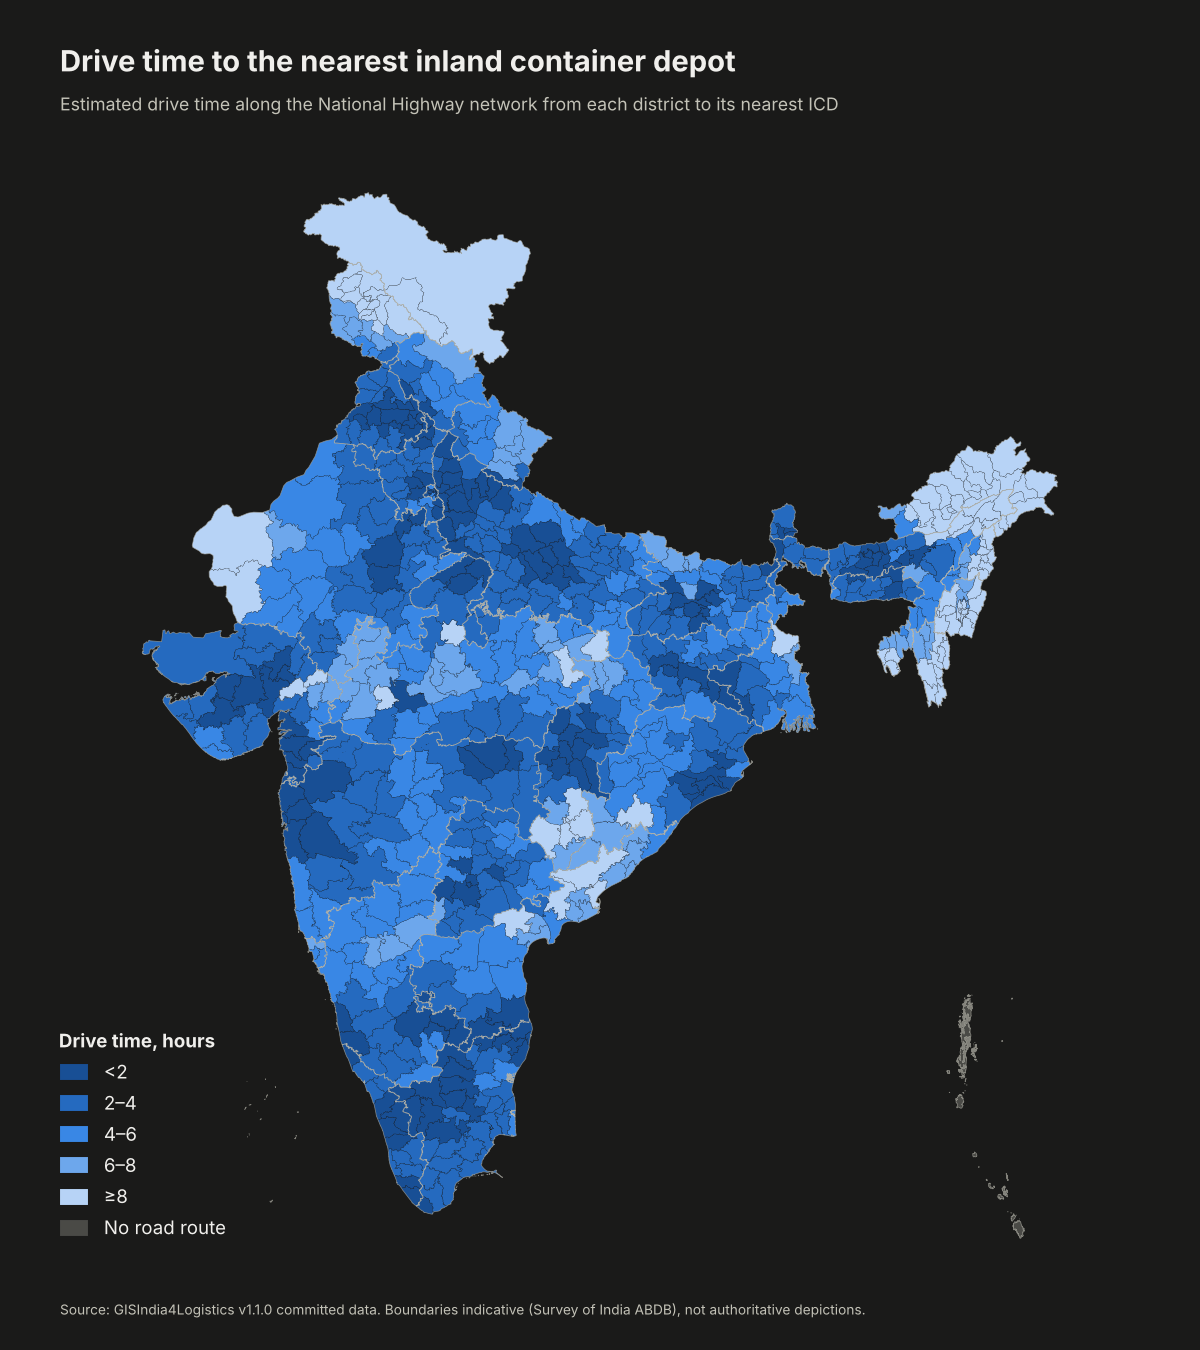
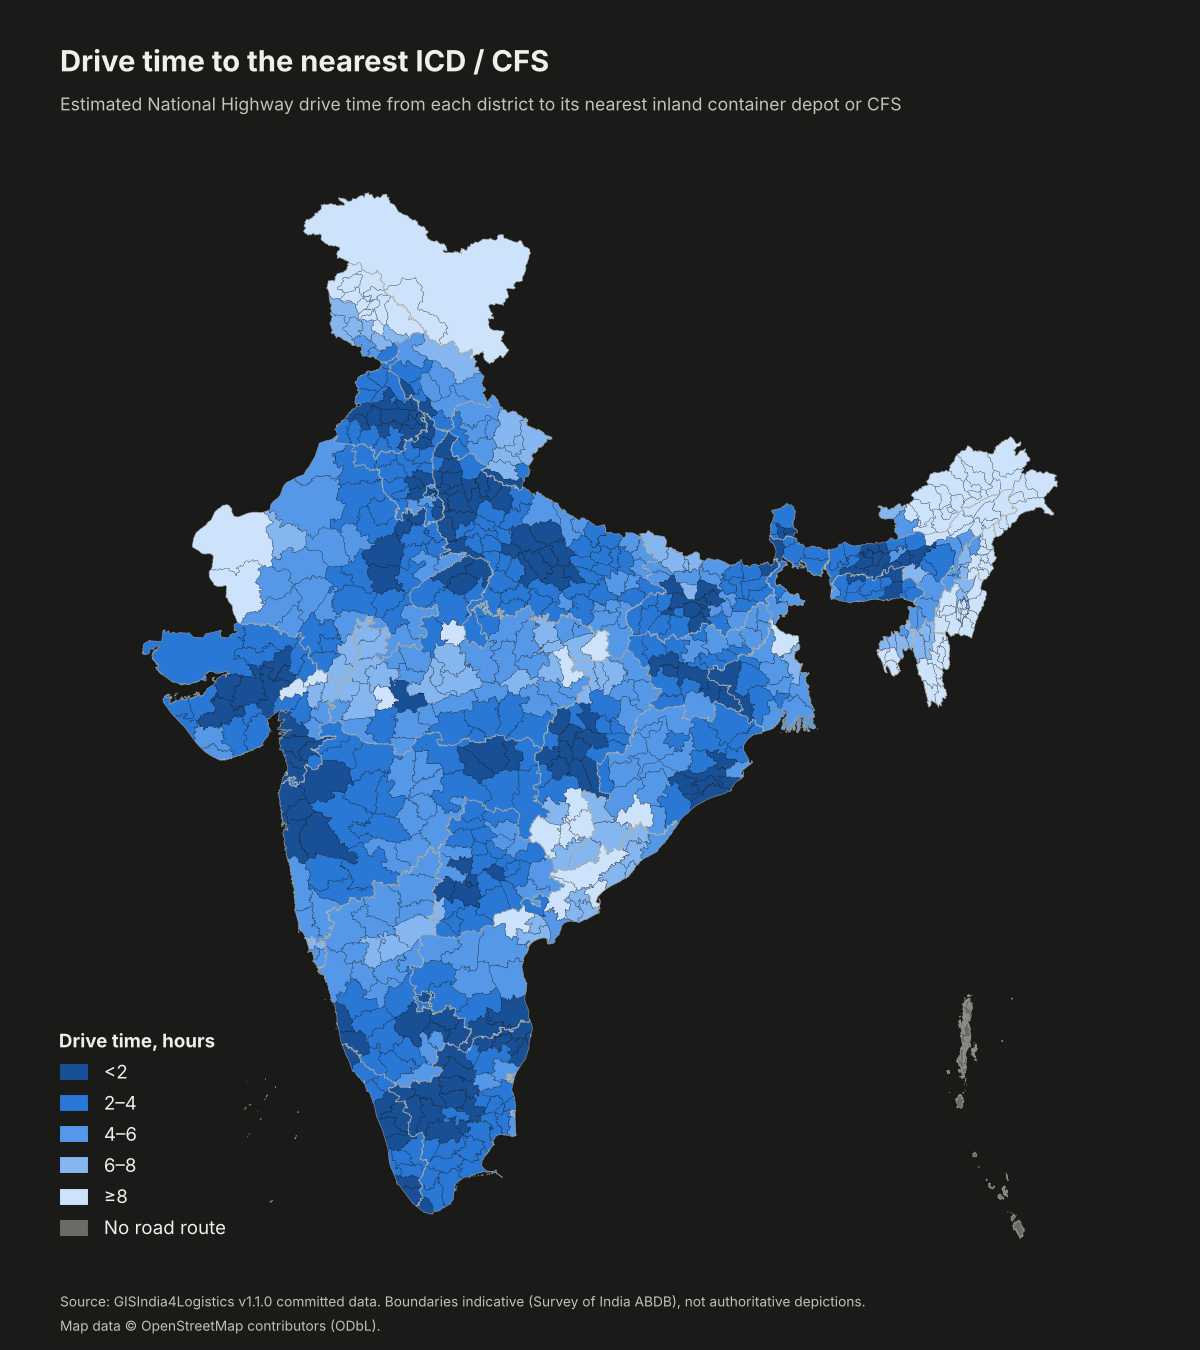
docs: fix README map joins (Dhule, Devbhumi Dwarka); OSM attribution; dark-mode legibility
The rail map now aggregates village rows by state and district name
(village-file district codes use an older scheme), draws no-data polygons
beneath valued ones, and the logs are deterministic. Records the two data
bugs found (village code scheme; duplicate Dhule-598 polygon) as follow-ups.

Claude-Session: https://claude.ai/code/session_013qwFyw86qCu2r8Q6zJk7xm

diff --git a/scripts/analyze/make_readme_figures.py b/scripts/analyze/make_readme_figures.py
@@ -14,16 +14,26 @@ Colour: one sequential blue ramp with 5 fixed, human-readable classes
 (not quantiles). Island districts / districts without a value get a neutral
 grey with its own legend entry. Every map carries the boundary disclaimer.
 
-Joins
------
-* Travel-time table: joined on ``district_code`` (normalised float -> Int64)
-  together with ``state``, because the LGD code 598 is carried by two districts
-  (Alappuzha, Dhule) and three polygons (Nazul, Mirpur, Muzaffarabad) have no
-  code at all. Those three fall back to an exact (state, district) name match.
-* Access-summary table: has NO district code column (only state + district
-  names, and some names carry legacy-font mojibake or older spellings), so it
-  is joined by normalised, state-scoped name: exact first, then a one-to-one
-  fuzzy pass. Every fuzzy pairing and every unmatched polygon is printed.
+Joins (all on LGD ``district_code``, scoped by state)
+------------------------------------------------------
+* Rail map: the value is recomputed from the per-state village files
+  ``data/analysis/<state_slug>_village_access.csv`` (median of
+  ``dist_rail_station_km`` over all villages of the district), because the
+  district summary has no code column. The village files use an older SoI code
+  scheme (new districts carry different codes and some codes collide with another
+  district), so a pure district_code join would paint wrong districts; rows are
+  therefore grouped by state + district name and assigned to polygons, with the
+  code only breaking ties. The script prints a diagnostic of what a pure code
+  join would have done.
+* ICD map: ``nh_district_travel_time_summary.csv`` joined on (state,
+  district_code); island districts have no road route.
+* Polygons with a null code (Nazul, Mirpur, Muzaffarabad) fall back to an exact
+  normalised (state, district) name match. LGD code 598 is carried by two
+  districts in different states, hence the state scoping. Nothing is guessed:
+  unmatched polygons are drawn grey and reported.
+* No-data polygons are drawn first, valued polygons on top, so a no-data
+  polygon can never hide a valued one (the layer has two overlapping
+  Maharashtra "DHULE" polygons).
 
 Usage: python scripts/analyze/make_readme_figures.py [--out-dir docs/img]
 """
@@ -50,8 +60,11 @@ DATA_DIR = REPO_ROOT / "data"
 DEFAULT_OUT = REPO_ROOT / "docs" / "img"
 
 PROJ_EPSG = 7755
-FOOTER = ("Source: GISIndia4Logistics v1.1.0 committed data. Boundaries indicative "
-          "(Survey of India ABDB), not authoritative depictions.")
+FOOTER_LINES = (
+    "Source: GISIndia4Logistics v1.1.0 committed data. Boundaries indicative "
+    "(Survey of India ABDB), not authoritative depictions.",
+    "Map data \u00a9 OpenStreetMap contributors (ODbL).",
+)
 
 # Sequential single-hue blue ramp, 5 classes, index 0 = smallest values.
 # Light mode: light -> dark = small -> large (more = darker blue).
@@ -60,11 +73,11 @@ FOOTER = ("Source: GISIndia4Logistics v1.1.0 committed data. Boundaries indicati
 # dark-mode steps run from the deepest blue (small) to the palest (large).
 RAMPS = {
     "light": ["#cde2fb", "#86b6ef", "#3987e5", "#1c5cab", "#0d366b"],
-    "dark": ["#184f95", "#256abf", "#3987e5", "#6da7ec", "#b7d3f6"],
+    "dark": ["#184f95", "#2a78d6", "#5598e7", "#86b6ef", "#cde2fb"],
 }
 THEMES = {
     "light": dict(surface="#fcfcfb", text="#0b0b0b", muted="#52514e", nodata="#d9d8d4"),
-    "dark": dict(surface="#1a1a19", text="#f0efec", muted="#c3c2b7", nodata="#4a4a46"),
+    "dark": dict(surface="#1a1a19", text="#f0efec", muted="#c3c2b7", nodata="#6b6a65"),
 }
 
 # Fixed class breaks (lower-inclusive: 5 falls in "5-10", 40 in ">=40").
@@ -80,8 +93,8 @@ MAPS = {
     ),
     "icd_drive": dict(
         stem="readme_icd_drive",
-        title="Drive time to the nearest inland container depot",
-        subtitle="Estimated drive time along the National Highway network from each district to its nearest ICD",
+        title="Drive time to the nearest ICD / CFS",
+        subtitle="Estimated National Highway drive time from each district to its nearest inland container depot or CFS",
         legend_title="Drive time, hours",
         bins=[2, 4, 6, 8],
         labels=["<2", "2–4", "4–6", "6–8", "≥8"],
@@ -103,29 +116,39 @@ def norm_code(s: pd.Series) -> pd.Series:
     return num.astype("Int64")
 
 
-# Verified same-district spellings that differ too much for fuzzy matching.
-SPELLING_ALIASES = {"TWENTY-FOUR": "24", "TWENTY FOUR": "24", "HOWRAH": "HAORA"}
+def norm_name(name: str) -> str:
+    """Upper-case alphanumerics only, accents stripped (for exact name fallback)."""
+    s = unicodedata.normalize("NFKD", str(name))
+    s = "".join(c for c in s if not unicodedata.combining(c))
+    return re.sub(r"[^A-Z0-9]", "", s.upper())
+
+
+def state_slug(name: str) -> str:
+    """'Dadra and Nagar Haveli and Daman and Diu' -> 'dadra_and_nagar_haveli_and_daman_and_diu'."""
+    return re.sub(r"[^a-z0-9]+", "_", str(name).strip().lower()).strip("_")
 
 
 def name_variants(name: str) -> list[str]:
-    """Normalised spelling variants: full, without parenthetical, parenthetical only."""
+    """Ordered normalised spellings: full, without parenthetical, parenthetical content.
+
+    Legacy-font mojibake in the source names (``>``=A, ``@``=I, ``\\``=I) is repaired first.
+    """
     s = unicodedata.normalize("NFKD", str(name))
     s = "".join(c for c in s if not unicodedata.combining(c))
-    s = s.upper().replace(">", "A").replace("@", "I").replace("\\", "I")  # legacy-font mojibake
-    for old, new in SPELLING_ALIASES.items():
-        s = s.replace(old, new)
-    variants = {s}
-    variants.add(re.sub(r"\([^)]*\)", " ", s))
-    variants.update(re.findall(r"\(([^)]*)\)", s))
-    out = []
-    for v in variants:
+    s = s.upper().replace(">", "A").replace("@", "I").replace("\\", "I")
+    s = s.replace("TWENTY-FOUR", "24").replace("TWENTY FOUR", "24")
+    s = s.replace("HOWRAH", "HAORA")  # same district, two official spellings
+    cands = [s, re.sub(r"\([^)]*\)", " ", s)] + re.findall(r"\(([^)]*)\)", s)
+    out: list[str] = []
+    for v in cands:
         v = re.sub(r"[^A-Z0-9]", "", v)
-        if v:
+        if v and v not in out:
             out.append(v)
     return out
 
 
 def name_score(a: str, b: str) -> float:
+    """1.0 for an identical normalised spelling, else fuzzy ratio (substring of >=6 chars counts 0.9)."""
     best = 0.0
     for x in name_variants(a):
         for y in name_variants(b):
@@ -138,56 +161,14 @@ def name_score(a: str, b: str) -> float:
     return best
 
 
-def join_by_state_name(polys: gpd.GeoDataFrame, table: pd.DataFrame, cutoff: float = 0.8):
-    """One-to-one state-scoped name match polygon -> table row index.
-
-    Returns (mapping poly_index -> table_index, list of report tuples).
-    """
-    mapping: dict[int, int] = {}
-    report: list[tuple[str, str, str, float]] = []
-    used: set[int] = set()
-    for state, pg in polys.groupby("state"):
-        tg = table[table["state"].str.strip().str.upper() == state.strip().upper()]
-        # exact (normalised) matches first
-        for pi, prow in pg.iterrows():
-            for ti, trow in tg.iterrows():
-                if ti not in used and name_variants(prow["district"])[0] == name_variants(trow["district"])[0]:
-                    mapping[pi] = ti
-                    used.add(ti)
-                    break
-        # one-to-one fuzzy pass, best score first, ties left unmatched
-        left_p = [i for i in pg.index if i not in mapping]
-        left_t = [i for i in tg.index if i not in used]
-        cands = sorted(
-            ((name_score(polys.at[p, "district"], table.at[t, "district"]), p, t)
-             for p in left_p for t in left_t),
-            key=lambda x: (-x[0], x[1], x[2]),
-        )
-        for score, p, t in cands:
-            if score < cutoff:
-                break
-            if p in mapping or t in used:
-                continue
-            rivals = [s for s, pp, tt in cands if s >= score - 1e-9 and (pp == p) != (tt == t)
-                      and pp not in mapping and tt not in used and (pp == p or tt == t)]
-            if rivals:  # ambiguous tie: do not guess
-                continue
-            mapping[p] = t
-            used.add(t)
-            report.append((state, polys.at[p, "district"], table.at[t, "district"], score))
-    return mapping, report
-
-
 def load_data():
     districts = gpd.read_parquet(DATA_DIR / "administrative" / "india_districts_lgd.parquet")
     states = gpd.read_parquet(DATA_DIR / "administrative" / "india_states_lgd.parquet")
-    access = pd.read_csv(DATA_DIR / "analysis" / "india_district_access_summary.csv")
     travel = pd.read_csv(DATA_DIR / "analysis" / "nh_district_travel_time_summary.csv")
     districts = districts.reset_index(drop=True)
     districts["district_code"] = norm_code(districts["district_code"])
     travel["district_code"] = norm_code(travel["district_code"])
-    access = access[access["district"] != "__STATE__"].reset_index(drop=True)
-    return districts, states, access, travel
+    return districts, states, travel
 
 
 def join_travel(districts: gpd.GeoDataFrame, travel: pd.DataFrame) -> pd.Series:
@@ -234,31 +215,107 @@ def join_travel(districts: gpd.GeoDataFrame, travel: pd.DataFrame) -> pd.Series:
     return out
 
 
-def join_access(districts: gpd.GeoDataFrame, access: pd.DataFrame) -> pd.Series:
-    """rail_station_median_km per polygon. The summary has no code column, so join by state-scoped name."""
-    print("\n[join] access summary -> district polygons (no district-code column exists; state-scoped name join)")
-    print(f"  access rows (excluding __STATE__): {len(access)}; polygons: {len(districts)}")
-    if access.duplicated(["state", "district"]).any():
-        print("  WARNING: duplicate (state, district) rows in access summary")
-    mapping, report = join_by_state_name(districts, access)
-    n_exact = len(mapping) - len(report)
-    print(f"  exact normalised-name matches: {n_exact}")
-    print(f"  fuzzy / alias matches (one-to-one, cutoff 0.80): {len(report)}")
-    for state, pname, aname, score in report:
-        print(f"    [{score:.2f}] {state}: polygon {pname!r} <- access row {aname!r}")
+def join_access(districts: gpd.GeoDataFrame, cutoff: float = 0.8) -> pd.Series:
+    """Median ``dist_rail_station_km`` per polygon from the per-state village files.
+
+    Intended key is (state, district_code), but the village files carry the older SoI
+    code scheme: for newer districts the codes differ from the polygon layer, and some
+    codes collide with a *different* district. So the key is (state, district name): every
+    village row is grouped by its district name (including rows with a null code and
+    mojibake/misspelt variants such as 'DEVBHUMI DWARKAl'), each group is assigned to the
+    best-scoring polygon of the same state (>= cutoff), with the district code only used
+    to break ties between equally named polygons. Ambiguous groups are left unassigned.
+    """
+    print("\n[join] per-state village files -> district polygons (median dist_rail_station_km)")
+    slugs = {st: state_slug(st) for st in sorted(districts["state"].unique())}
+    missing = [st for st, sl in slugs.items() if not (DATA_DIR / "analysis" / f"{sl}_village_access.csv").exists()]
+    print(f"  states in polygon layer: {len(slugs)}; mapped to a village file: {len(slugs) - len(missing)}"
+          + (f"; MISSING: {missing}" if missing else ""))
+    frames = []
+    for st, sl in slugs.items():
+        f = DATA_DIR / "analysis" / f"{sl}_village_access.csv"
+        if f.exists():
+            v = pd.read_csv(f, usecols=["district", "district_code", "dist_rail_station_km"])
+            v["state"] = st
+            frames.append(v)
+    vill = pd.concat(frames, ignore_index=True)
+    vill["district_code"] = norm_code(vill["district_code"])
+    n_null_code = int(vill["district_code"].isna().sum())
+    vill = vill.dropna(subset=["dist_rail_station_km", "district"]).reset_index(drop=True)
+    print(f"  village rows used: {len(vill)}; of which null district_code: {n_null_code}")
+
+    # --- diagnostic: what a pure (state, district_code) join would do ---
+    grp_code = vill.dropna(subset=["district_code"]).groupby(["state", "district_code"])["district"].agg(
+        lambda x: x.value_counts().index[0])
+    n_code = n_code_bad = 0
+    for _, r in districts.dropna(subset=["district_code"]).iterrows():
+        key = (r["state"], r["district_code"])
+        if key in grp_code.index:
+            n_code += 1
+            if name_score(grp_code[key], r["district"]) < cutoff:
+                n_code_bad += 1
+    n_coded = int(districts["district_code"].notna().sum())
+    print(f"  [diagnostic] a pure (state, district_code) join would hit {n_code}/{n_coded} polygons, "
+          f"{n_code_bad} of them with a DIFFERENT district name (wrong-district join); "
+          f"{n_coded - n_code} polygons have no village group with their code")
+
     vals = pd.Series(np.nan, index=districts.index, dtype=float)
-    for p, t in mapping.items():
-        vals[p] = access.at[t, "rail_station_median_km"]
-    unmatched_p = districts.index.difference(list(mapping))
-    unused_t = access.index.difference(list(mapping.values()))
-    print(f"  polygons with a value: {len(mapping)}/{len(districts)}; without: {len(unmatched_p)}")
-    for p in unmatched_p:
-        print(f"    unmatched polygon: {districts.at[p, 'state']} / {districts.at[p, 'district']} "
-              f"(code {districts.at[p, 'district_code']})")
-    for t in unused_t:
-        print(f"    unused access row: {access.at[t, 'state']} / {access.at[t, 'district']}")
-    n_nan = int(access.loc[list(mapping.values()), "rail_station_median_km"].isna().sum())
-    print(f"  matched rows with NaN measure: {n_nan}")
+    nvill = pd.Series(0, index=districts.index, dtype=int)
+    stats = dict(exact=0, fuzzy=0, tie=0)
+    fuzzy_log, unassigned_groups = [], []
+    assigned_p: set[int] = set()
+    rows_used = 0
+    for st in slugs:
+        pg = districts[districts["state"] == st]
+        vg = vill[vill["state"] == st]
+        names = sorted(vg["district"].unique())
+        bucket: dict[int, list[str]] = {i: [] for i in pg.index}
+        for nm in names:
+            scores = [(name_score(nm, pg.at[i, "district"]), i) for i in pg.index]
+            top = max(sc for sc, _ in scores)
+            if top < cutoff:
+                unassigned_groups.append((st, nm, int((vg["district"] == nm).sum())))
+                continue
+            best = [i for sc, i in scores if sc >= top - 1e-9]
+            if len(best) > 1:  # equally good polygons: tie-break on district code, else do not guess
+                codes = vg.loc[vg["district"] == nm, "district_code"].dropna()
+                modal = codes.mode().iloc[0] if len(codes) else None
+                cb = [i for i in best if modal is not None and pg.at[i, "district_code"] == modal]
+                if len(cb) != 1:
+                    stats["tie"] += 1
+                    unassigned_groups.append((st, nm + " [ambiguous]", int((vg["district"] == nm).sum())))
+                    continue
+                best = cb
+            i = best[0]
+            bucket[i].append(nm)
+            if top < 1.0:
+                stats["fuzzy"] += 1
+                fuzzy_log.append((st, nm, pg.at[i, "district"], top))
+            else:
+                stats["exact"] += 1
+        for i, nms in bucket.items():
+            if nms:
+                x = vg.loc[vg["district"].isin(nms), "dist_rail_station_km"]
+                vals[i], nvill[i] = x.median(), len(x)
+                rows_used += len(x)
+                assigned_p.add(i)
+    print(f"  village name-groups assigned: exact {stats['exact']}, fuzzy/variant {stats['fuzzy']} "
+          f"(cutoff {cutoff}), ambiguous-left-out {stats['tie']}")
+    for st, nm, pn, sc in fuzzy_log:
+        print(f"    [{sc:.2f}] {st}: village-file {nm!r} -> polygon {pn!r}")
+    print(f"  village rows aggregated into a polygon: {rows_used}/{len(vill)}")
+    print(f"  village name-groups with no polygon: {len(unassigned_groups)}")
+    for st, nm, n in unassigned_groups:
+        print(f"    {st}: {nm!r} ({n} rows)")
+    miss = districts.index.difference(sorted(assigned_p))
+    print(f"  polygons with a value: {len(assigned_p)}/{len(districts)}; without (drawn grey): {len(miss)}")
+    for i in miss:
+        print(f"    no-data polygon: {districts.at[i, 'state']} / {districts.at[i, 'district']} "
+              f"(code {districts.at[i, 'district_code']})")
+    for st, dn in (("Gujarat", "DEVBHUMI DWARKA"), ("Maharashtra", "DHULE")):
+        for i in districts.index[(districts["state"] == st) & (districts["district"].str.upper() == dn)]:
+            print(f"  check {st} / {dn} (code {districts.at[i, 'district_code']}): "
+                  + (f"median {vals[i]:.2f} km from {nvill[i]} villages" if nvill[i] else "no value (no-data)"))
     return vals
 
 
@@ -280,8 +337,13 @@ def render(districts_p: gpd.GeoDataFrame, states_p: gpd.GeoDataFrame, classes: n
     fig = plt.figure(figsize=(FIG_W, FIG_H), dpi=DPI, facecolor=th["surface"])
     ax = fig.add_axes([0.03, 0.075, 0.94, 0.79])
     ax.set_facecolor(th["surface"])
-    districts_p.plot(ax=ax, color=colors, edgecolor=th["surface"], linewidth=0.07)
-    states_p.plot(ax=ax, facecolor="none", edgecolor=to_rgba(th["muted"], 0.6), linewidth=0.35)
+    # No-data polygons first, valued polygons on top (never paint grey over a value).
+    nodata = classes < 0
+    for mask, z in ((nodata, 1), (~nodata, 2)):
+        if mask.any():
+            districts_p[mask].plot(ax=ax, color=[c for c, m in zip(colors, mask) if m],
+                                   edgecolor=th["surface"], linewidth=0.07, zorder=z)
+    states_p.plot(ax=ax, facecolor="none", edgecolor=to_rgba(th["muted"], 0.6), linewidth=0.35, zorder=3)
     xmin, ymin, xmax, ymax = districts_p.total_bounds
     padx, pady = (xmax - xmin) * 0.01, (ymax - ymin) * 0.01
     ax.set_xlim(xmin - padx, xmax + padx)
@@ -304,7 +366,8 @@ def render(districts_p: gpd.GeoDataFrame, states_p: gpd.GeoDataFrame, classes: n
     fig.text(0.05, 0.955, spec["title"], ha="left", va="center", fontsize=14,
              fontweight="bold", color=th["text"])
     fig.text(0.05, 0.923, spec["subtitle"], ha="left", va="center", fontsize=8.5, color=th["muted"])
-    fig.text(0.05, 0.03, FOOTER, ha="left", va="center", fontsize=6.6, color=th["muted"])
+    for k, line in enumerate(FOOTER_LINES):
+        fig.text(0.05, 0.036 - 0.018 * k, line, ha="left", va="center", fontsize=6.6, color=th["muted"])
 
     out_path.parent.mkdir(parents=True, exist_ok=True)
     fig.savefig(out_path, dpi=DPI, facecolor=th["surface"],
@@ -320,10 +383,10 @@ def main() -> None:
     args = ap.parse_args()
     out_dir = args.out_dir if args.out_dir.is_absolute() else (Path.cwd() / args.out_dir)
 
-    districts, states, access, travel = load_data()
-    print(f"[load] districts={len(districts)} states={len(states)} access={len(access)} travel={len(travel)}")
+    districts, states, travel = load_data()
+    print(f"[load] districts={len(districts)} states={len(states)} travel={len(travel)}")
     values = {
-        "rail_access": join_access(districts, access),
+        "rail_access": join_access(districts),
         "icd_drive": join_travel(districts, travel),
     }
     districts_p = districts.to_crs(PROJ_EPSG)

diff --git a/docs/claude_remote_handoff.md b/docs/claude_remote_handoff.md
@@ -17,6 +17,7 @@ Any session (local or remote) restarting this work: read **"Current state"** bel
 - **Publishing:** operator ruling 2026-10-19: **no PyPI release for now**. `publish-pypi.yml` still exists and fires on a GitHub release or `v*.*.*` tag, so do not create either without asking. Optional: a focused independent Opus acceptance of the 1.1.0 delta (snapping policy, manifest bindings, high-circuity routes, consumer results).
 - **Project positioning:** operator ruling 2026-10-19: presented as a **personal hobby project**; pull requests and outside contributions are not accepted (README, `CONTRIBUTING.md`, `SUPPORT.md`). Issues remain open for data/licence concerns.
 - **Follow-ups (not started):** gravity calibration (needs district-origin port data); high-circuity pairs; null over-sea island values; point-of-use routing warnings in API responses; setuptools licence-metadata deprecation (deadline 2027-02-18).
+- **Data bugs found while drawing the README maps (not fixed):** (1) `data/analysis/*_village_access.csv` `district_code` uses an older SoI code scheme than `india_districts_lgd` (e.g. Gujarat Devbhumi Dwarka 674 vs 656, Telangana 697 = Yadadri Bhuvanagiri vs Mancherial); a code join mis-assigns 14 districts and misses 91, and village district names carry mojibake/typos (`DEVBHUMI DW>RKA`, `DEVBHUMI DWARKAl`), which also splits `india_district_access_summary.csv` rows. (2) `india_districts_lgd` has a second Maharashtra polygon named DHULE with code 598 and Dhule's geometry, apparently a side effect of the Malegaon reconcile (598 is Malegaon's LGD code); Malegaon has no polygon of its own.
 
 ### How to resume
 
